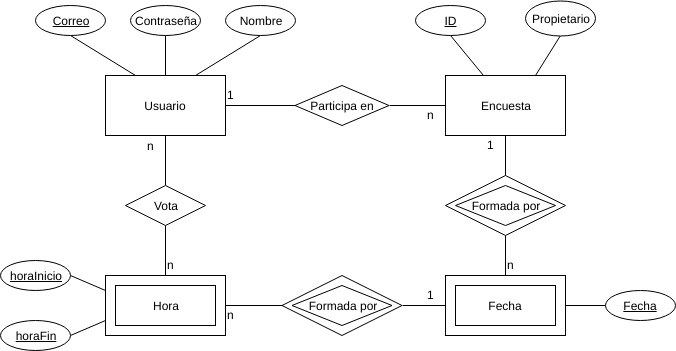
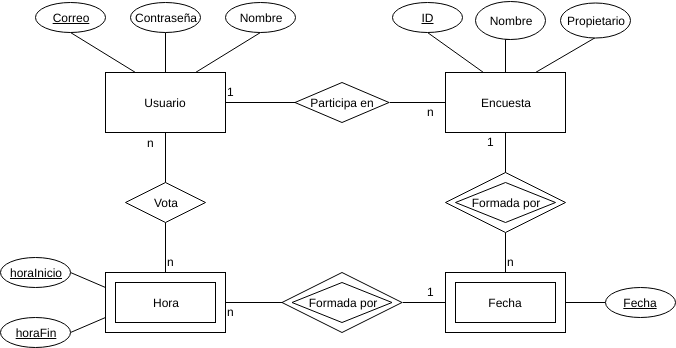
Añadido campo a SQL + Vista prefil usuario

diff --git a/perfil-usuario.html b/perfil-usuario.html
@@ -1,0 +1,72 @@
+<!DOCTYPE html>
+
+<html>
+
+<head> 
+
+	<meta charset="UTF-8"></meta>
+
+    <!--bootstap advices -->
+    <meta name="viewport" content="width=device-width, initial-scale=1, shrink-to-fit=no">
+
+    
+    <link rel="stylesheet" href="https://stackpath.bootstrapcdn.com/bootstrap/4.1.3/css/bootstrap.min.css" integrity="sha384-MCw98/SFnGE8fJT3GXwEOngsV7Zt27NXFoaoApmYm81iuXoPkFOJwJ8ERdknLPMO" crossorigin="anonymous">
+    <link rel="stylesheet" href="estilo.css" type="text/css"/>
+    
+
+	<title>Tieneshueco?</title>
+
+</head>
+
+<body>
+
+	<div class="container-fluid">
+<header>
+		<div id="topdiv" class="row">
+ 
+ 		<div id="logotipo" class="col-8" >
+			<img src="images/logotipo.png" alt="logotipo" width="64" height="64"/>
+			<a href="" class=" enlace"> Ayuda </a>
+			<a href="" class="enlace"> Español </a>
+		</div>
+
+			<nav class="col-4 navegadorsuperior">
+				<a href="" class=" enlace"> Crear encuesta </a>
+				<a href="" class=" enlace"> Encuestas </a>
+				<a href="" class=" enlace"> Cerrar sesión </a>
+			</nav>
+		</div>
+</header>
+
+
+<br/>
+
+
+
+<main class="container">	
+    <h3>Encuestas</h3>
+
+    <ul class="list-group">
+        <li class="list-group-item"><a href="#">Reunión</a></li>
+        <li class="list-group-item"><a href="#">Quedada</a></li>
+    </ul>
+
+    <br>
+
+    <h3>Encuestas compartidas</h3>
+
+    <ul class="list-group">
+        <li class="list-group-item"><a href="#">Cumpleaños</a></li>
+        <li class="list-group-item"><a href="#">Horario para faltar a clase</a></li>
+        <li class="list-group-item"><a href="#">Probando</a></li>
+        <li class="list-group-item"><a href="#">Quedada para escribir a mano un lorem ipsum</a></li>
+        <li class="list-group-item"><a href="#">Morirse</a></li>
+    </ul>
+
+</main>
+
+<script src="https://code.jquery.com/jquery-3.3.1.slim.min.js" integrity="sha384-q8i/X+965DzO0rT7abK41JStQIAqVgRVzpbzo5smXKp4YfRvH+8abtTE1Pi6jizo" crossorigin="anonymous"></script>
+<script src="https://cdnjs.cloudflare.com/ajax/libs/popper.js/1.14.3/umd/popper.min.js" integrity="sha384-ZMP7rVo3mIykV+2+9J3UJ46jBk0WLaUAdn689aCwoqbBJiSnjAK/l8WvCWPIPm49" crossorigin="anonymous"></script>
+<script src="https://stackpath.bootstrapcdn.com/bootstrap/4.1.3/js/bootstrap.min.js" integrity="sha384-ChfqqxuZUCnJSK3+MXmPNIyE6ZbWh2IMqE241rYiqJxyMiZ6OW/JmZQ5stwEULTy" crossorigin="anonymous"></script>
+
+</body>
